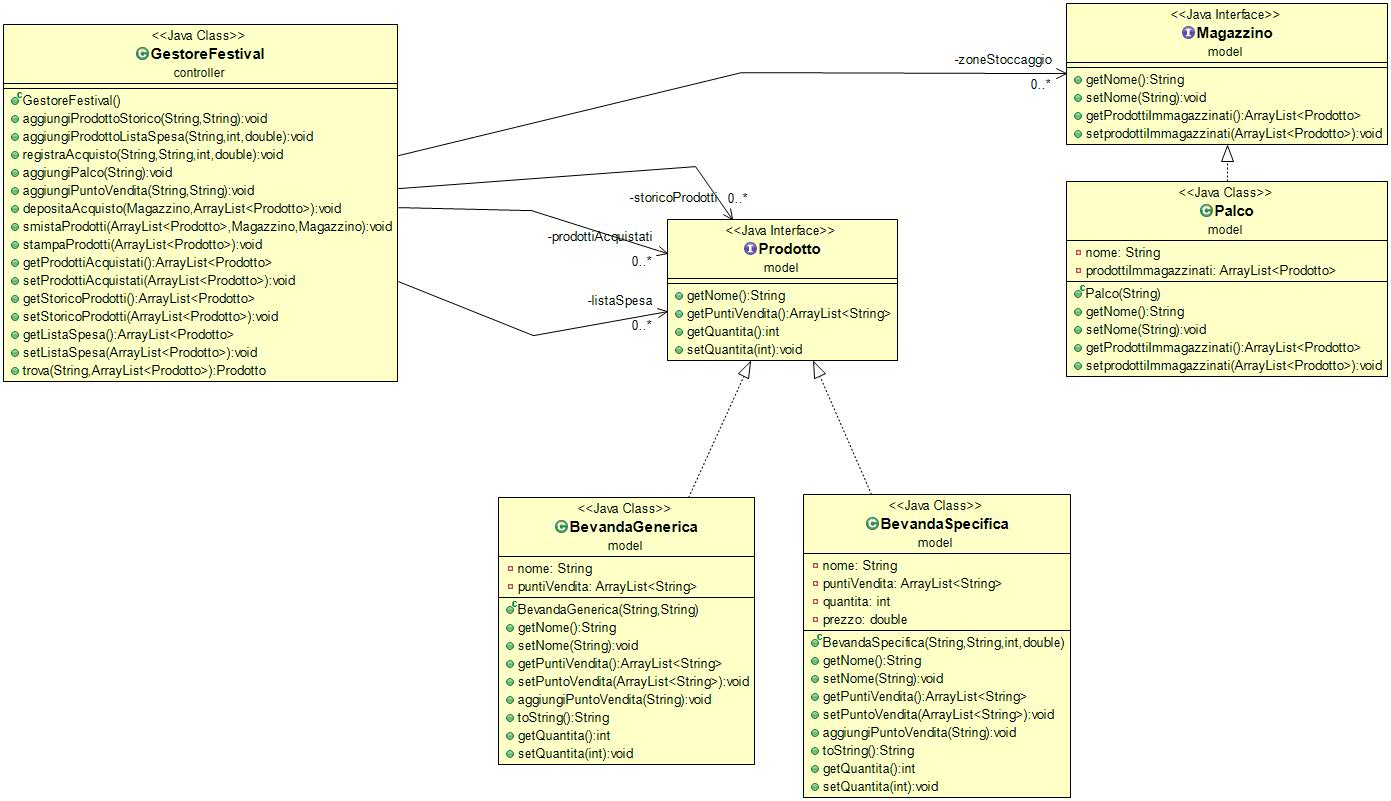
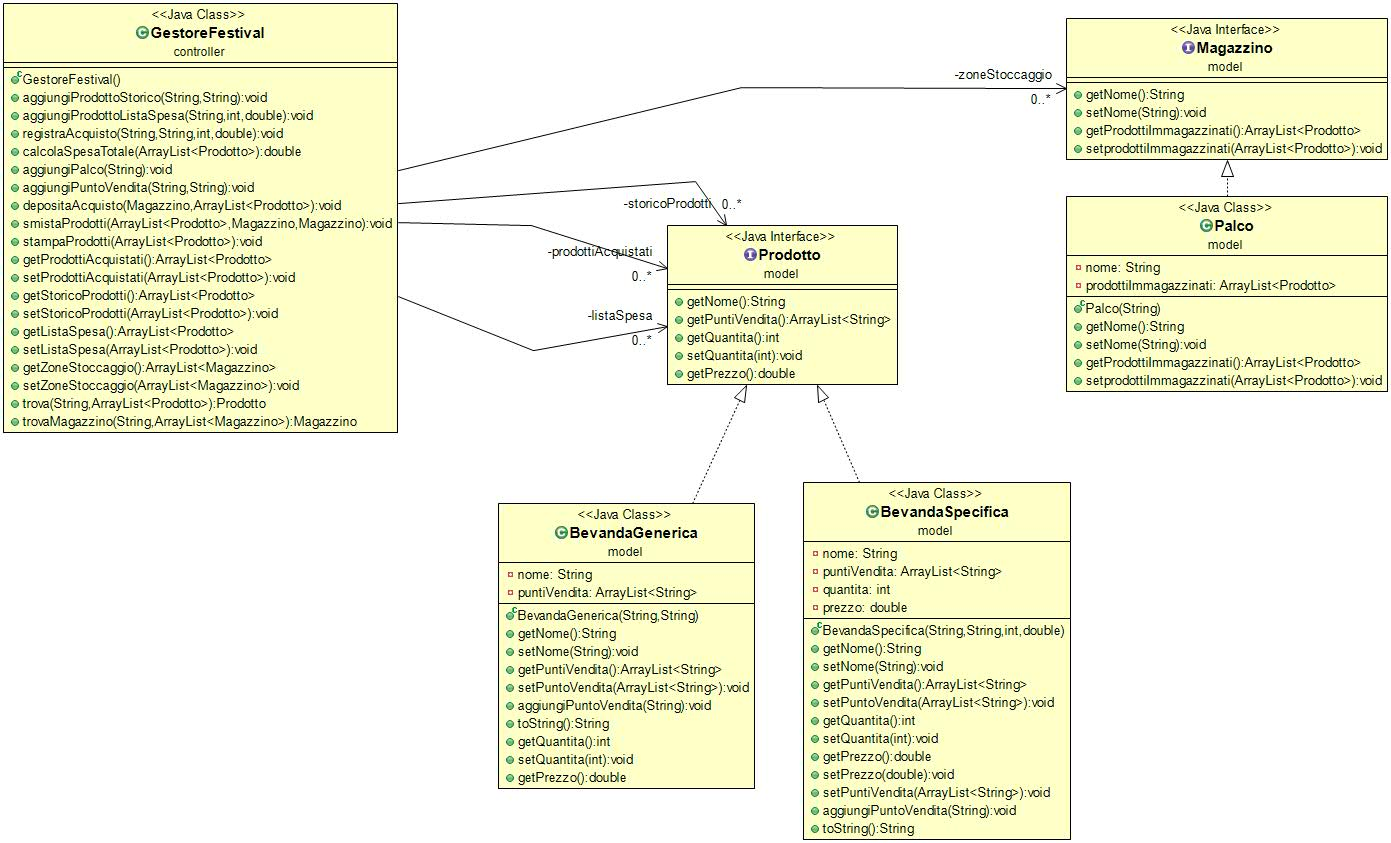
modifica enorme

diff --git a/src/test/TestProdotti.java b/src/test/TestProdotti.java
@@ -2,10 +2,13 @@ package test;
 
 import static org.junit.Assert.*;
 
+import java.util.ArrayList;
+
 import org.junit.Before;
 import org.junit.Test;
 
 import controller.*;
+import model.*;
 
 public class TestProdotti {
 	GestoreFestival g1=new GestoreFestival();
@@ -52,8 +55,6 @@ public class TestProdotti {
 		System.out.print("\n");
 		g1.registraAcquisto("Chinotto", "Metro", 15, 13.5);
 		g1.registraAcquisto("Chinotto", "Ipercoop", 11, 12);
-		g1.registraAcquisto("Chinotto", "Metro", 15, 13.5);
-		g1.registraAcquisto("Chinotto", "Ipercoop", 11, 12);
 		g1.registraAcquisto("Fanta", "Metro", 15, 3.5);
 		System.out.print("-Lista spesa attuale:\n");
 		g1.stampaProdotti(g1.getListaSpesa());
@@ -63,6 +64,38 @@ public class TestProdotti {
 		g1.stampaProdotti(g1.getStoricoProdotti()); 
 	}
 	
+	@Test
+	public void calcolaSpesaTotale(){
+		g1.registraAcquisto("Chinotto", "Metro", 15, 2);
+		g1.registraAcquisto("Chinotto", "Ipercoop", 11, 1.5);
+		g1.registraAcquisto("Fanta", "Metro", 10, 3.5);
+		double k=g1.calcolaSpesaTotale(g1.getProdottiAcquistati());
+		assertEquals(k==81.5, true);
+	}
 	
+	@Test
+	public void depositaOggetti(){
+		g1.aggiungiPalco("Santa Giuliana");
+		g1.registraAcquisto("Chinotto", "Metro", 15, 2);
+		Magazzino magazzino= g1.trovaMagazzino("Santa Giuliana", g1.getZoneStoccaggio());
+		g1.depositaAcquisto(magazzino, g1.getProdottiAcquistati());
+		assertEquals(magazzino.getProdottiImmagazzinati().isEmpty(), false);
+	}
+	
+	@Test
+	public void smistaOggetti(){
+		g1.aggiungiPalco("Santa Giuliana");
+		g1.aggiungiPalco("Carducci");
+		g1.registraAcquisto("Chinotto", "Metro", 15, 2);
+		ArrayList<Prodotto> prodottiDaSmistare= new ArrayList<Prodotto>();
+		prodottiDaSmistare.add(new BevandaSpecifica("Chinotto", "Metro", 15, 2));
+		prodottiDaSmistare.add(new BevandaSpecifica("Monster", "Metro", 15, 2));
+		prodottiDaSmistare.add(new BevandaSpecifica("Redbull", "Metro", 15, 2));
+		Magazzino magazzino1= g1.trovaMagazzino("Santa Giuliana", g1.getZoneStoccaggio());
+		Magazzino magazzino2= g1.trovaMagazzino("Carducci", g1.getZoneStoccaggio());
+		g1.depositaAcquisto(magazzino1, g1.getProdottiAcquistati());
+		g1.smistaProdotti(prodottiDaSmistare, magazzino1, magazzino2);
+		assertEquals(magazzino2.getProdottiImmagazzinati().isEmpty(), false);
+	}
 
 }

diff --git a/src/model/BevandaGenerica.java b/src/model/BevandaGenerica.java
@@ -50,4 +50,8 @@ public class BevandaGenerica implements Prodotto {
 
 	public void setQuantita(int i) {}
 
+	public double getPrezzo() {
+		return 0;
+	}
+
 }

diff --git a/src/model/Prodotto.java b/src/model/Prodotto.java
@@ -12,4 +12,6 @@ public interface Prodotto {
 
 	public void setQuantita(int i);
 	
+	public double getPrezzo();
+	
 }
